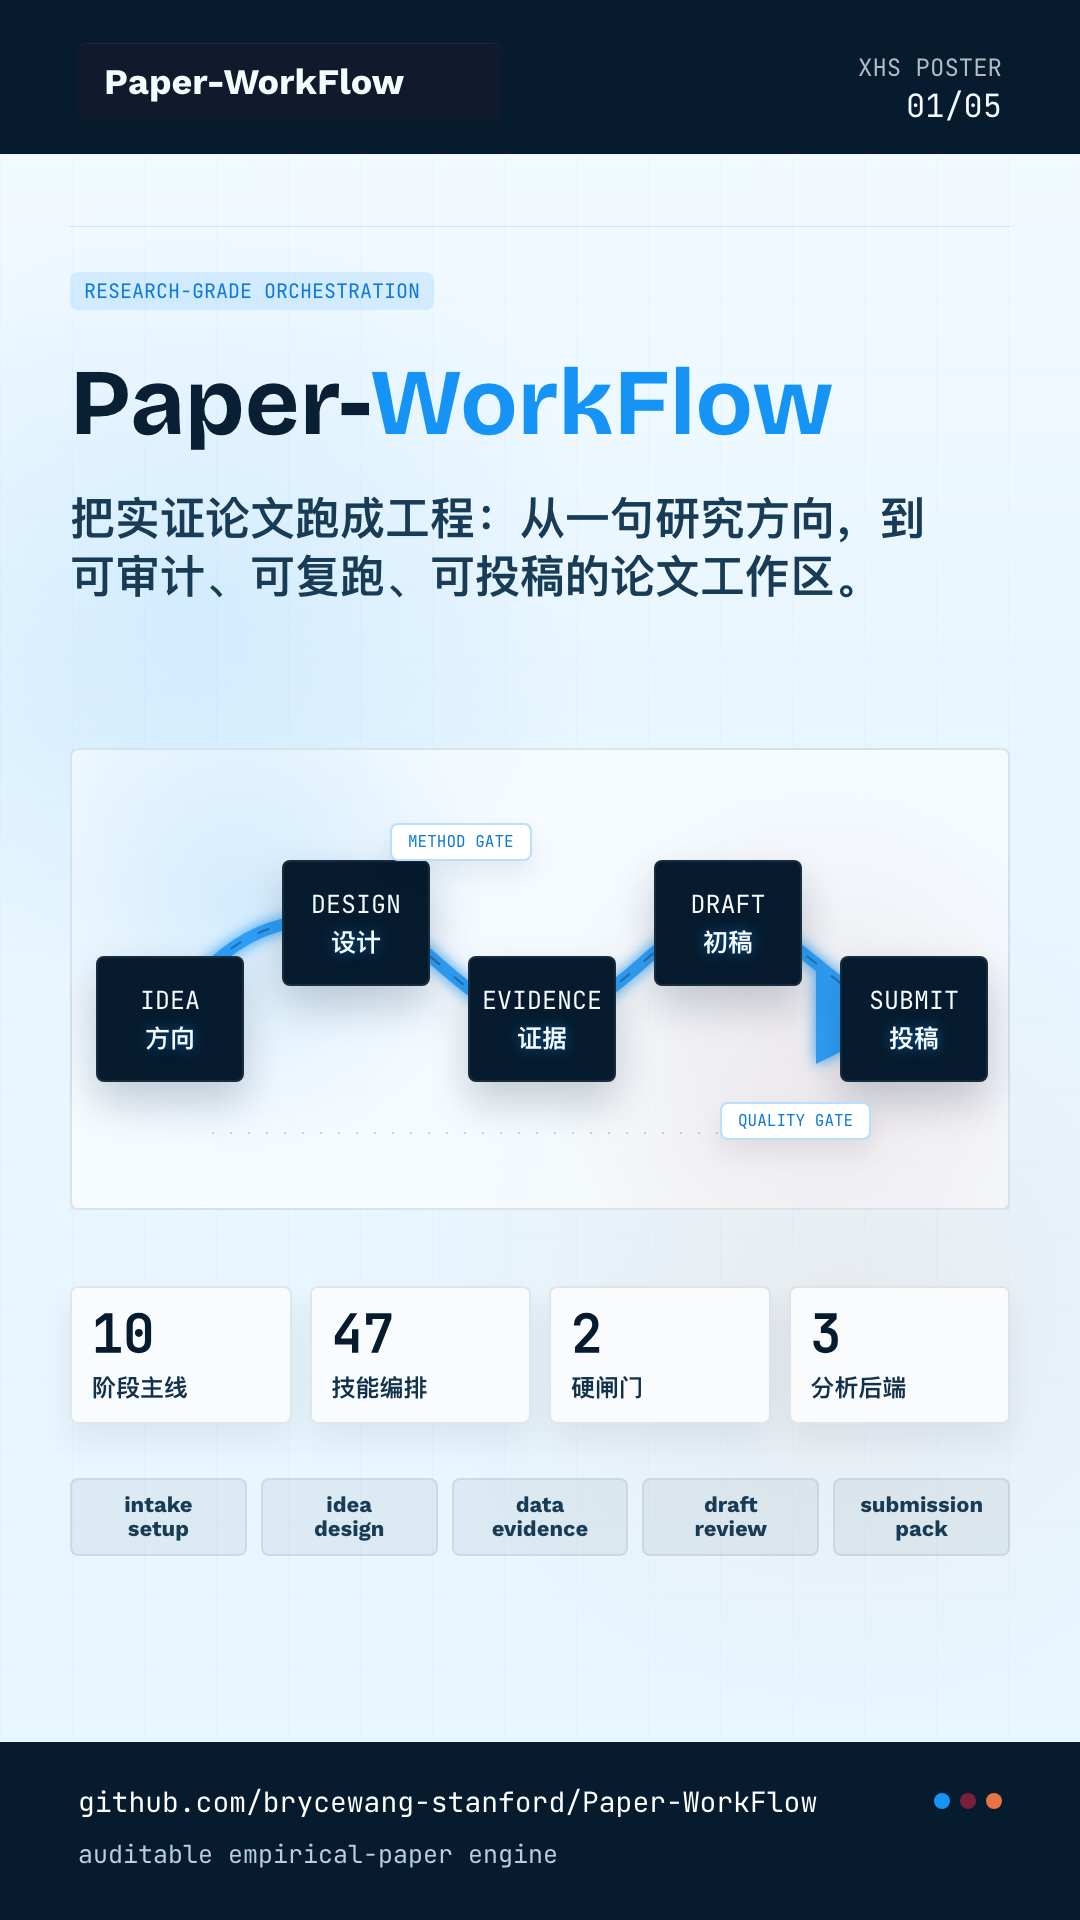
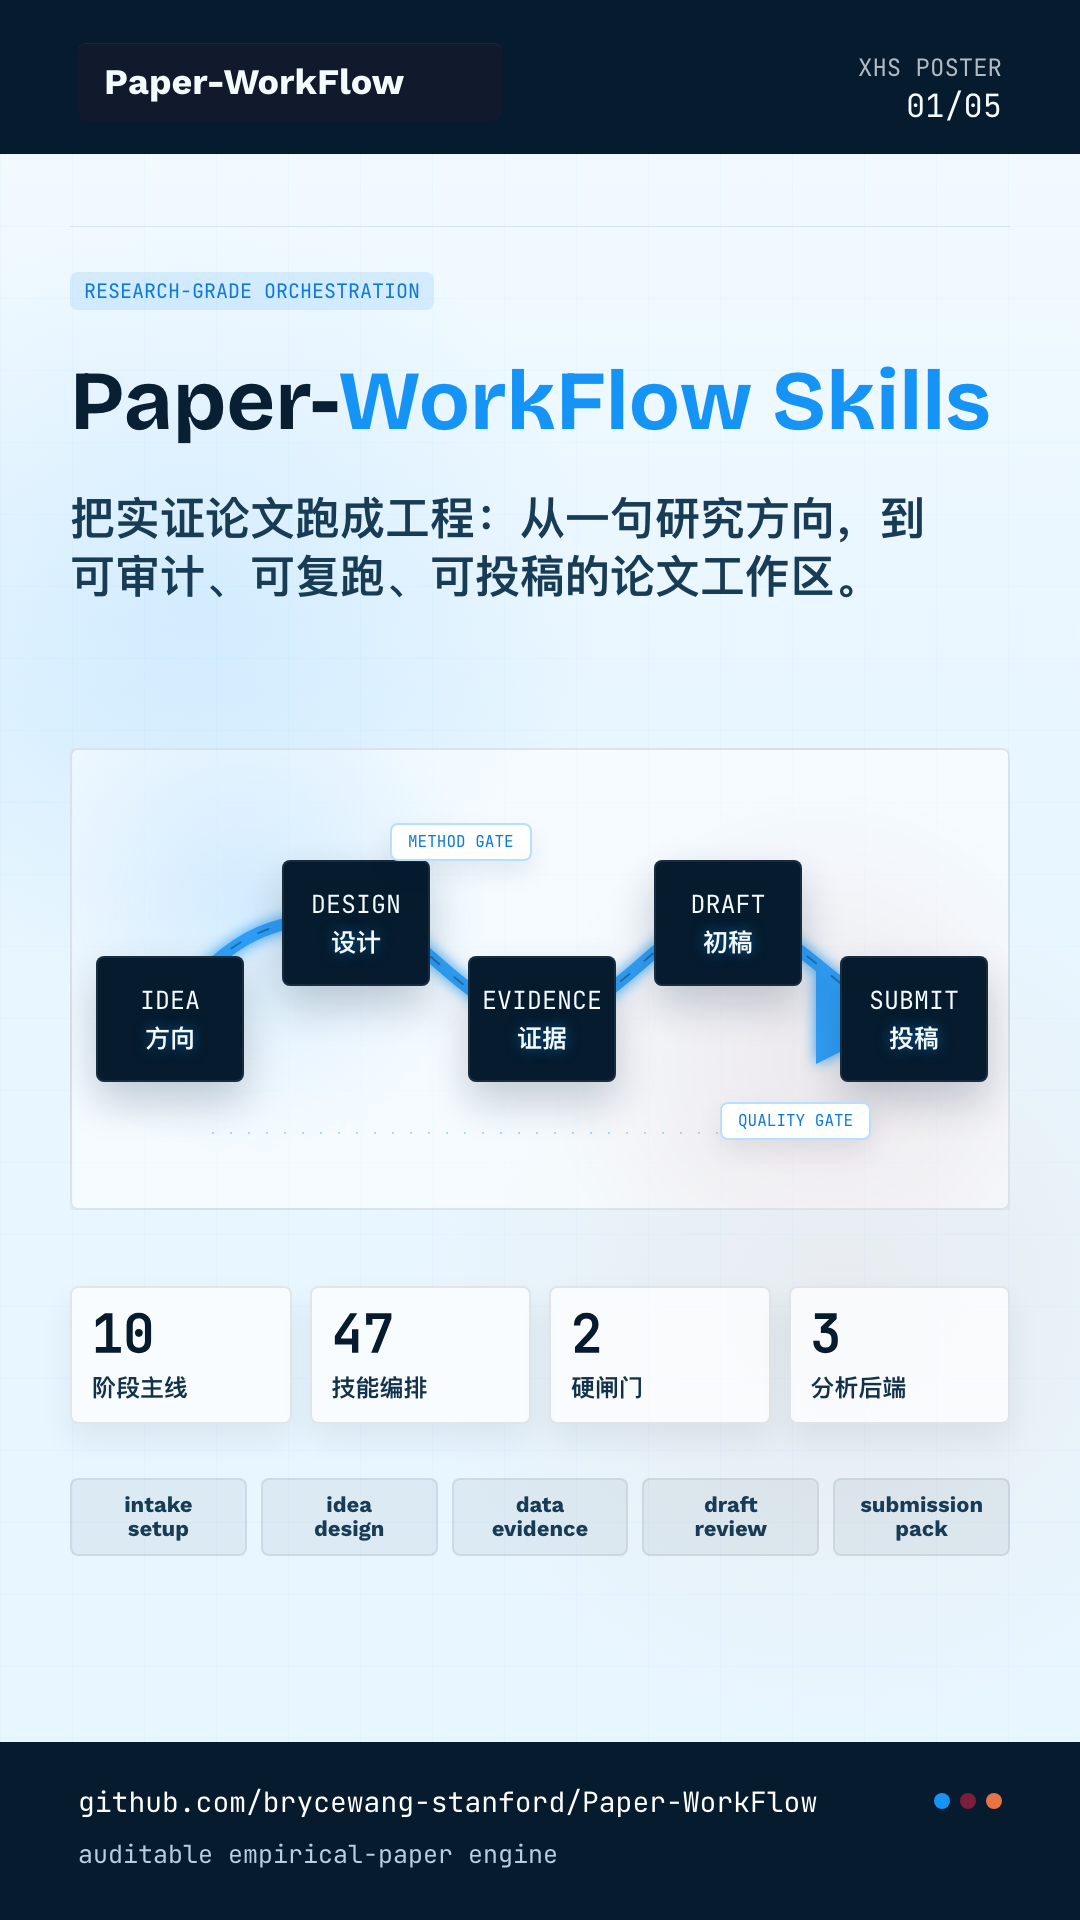
design: update Paper-WorkFlow poster title

Changed region(s): [[0.0611, 0.1875, 0.9167, 0.25]]

diff --git a/社媒文件/paper_workflow_posters.html b/社媒文件/paper_workflow_posters.html
@@ -349,8 +349,9 @@
     .p1 .title {
       top: 206px;
       width: 940px;
-      font-size: 94px;
-      line-height: .92;
+      font-size: 84px;
+      line-height: 1;
+      white-space: nowrap;
     }
 
     .p1 .subtitle {
@@ -1006,7 +1007,7 @@
     <div class="stage">
       <div class="wrap">
         <div class="kicker">research-grade orchestration</div>
-        <h1 class="title">Paper-<strong>WorkFlow</strong></h1>
+        <h1 class="title">Paper-<strong>WorkFlow Skills</strong></h1>
         <p class="subtitle">把实证论文跑成工程：从一句研究方向，到可审计、可复跑、可投稿的论文工作区。</p>
 
         <div class="flow-board">